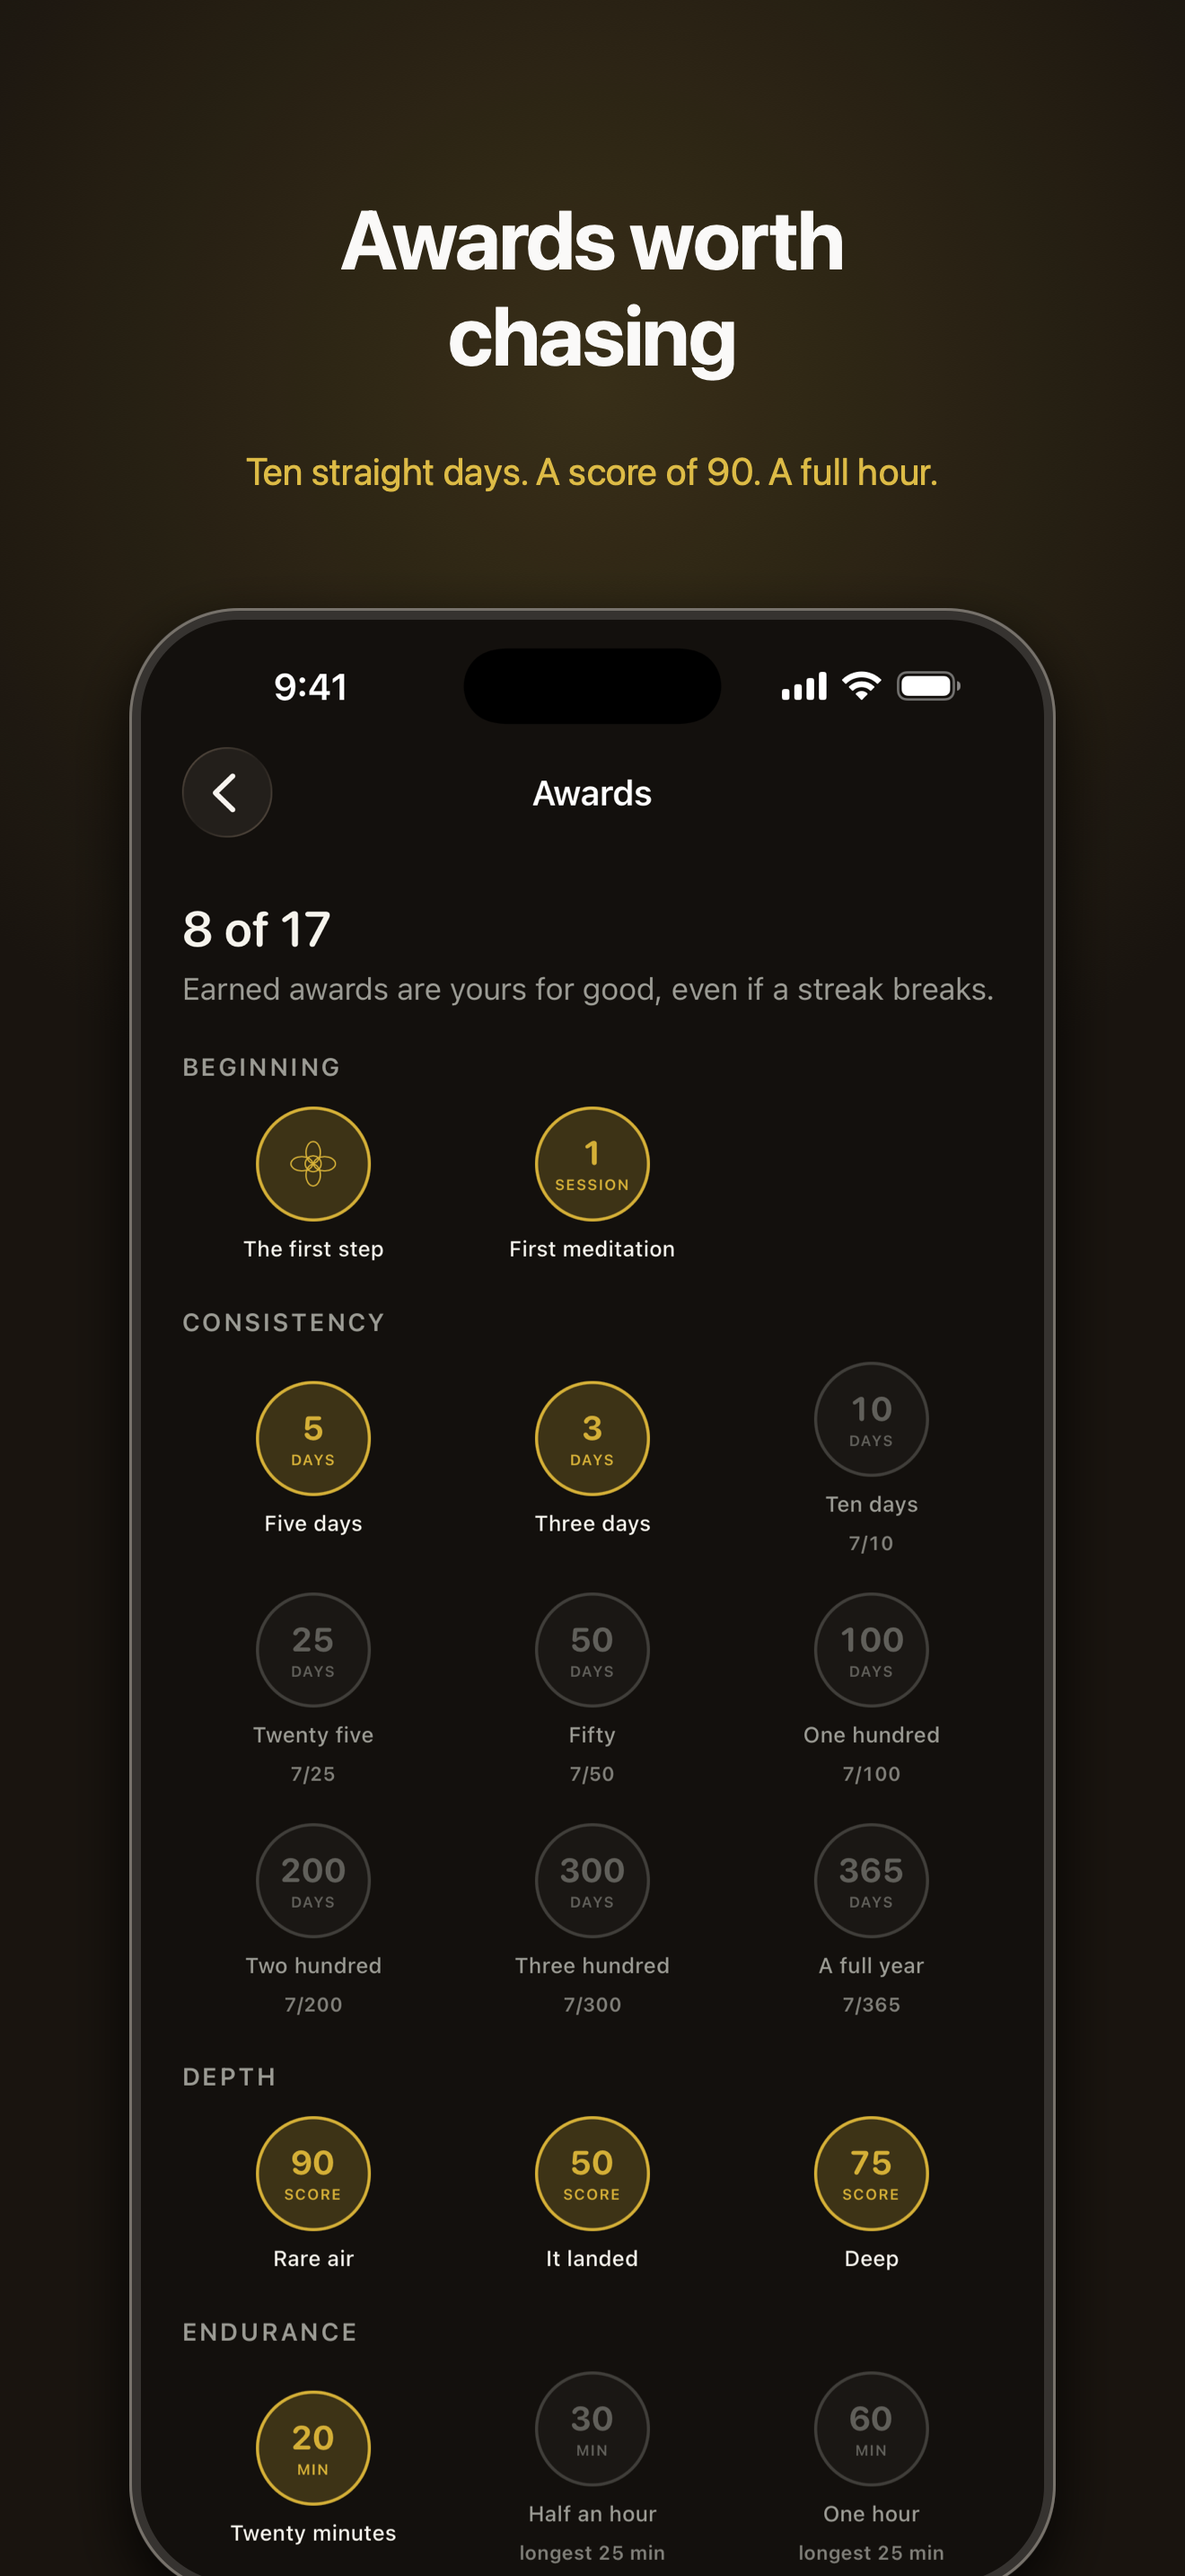
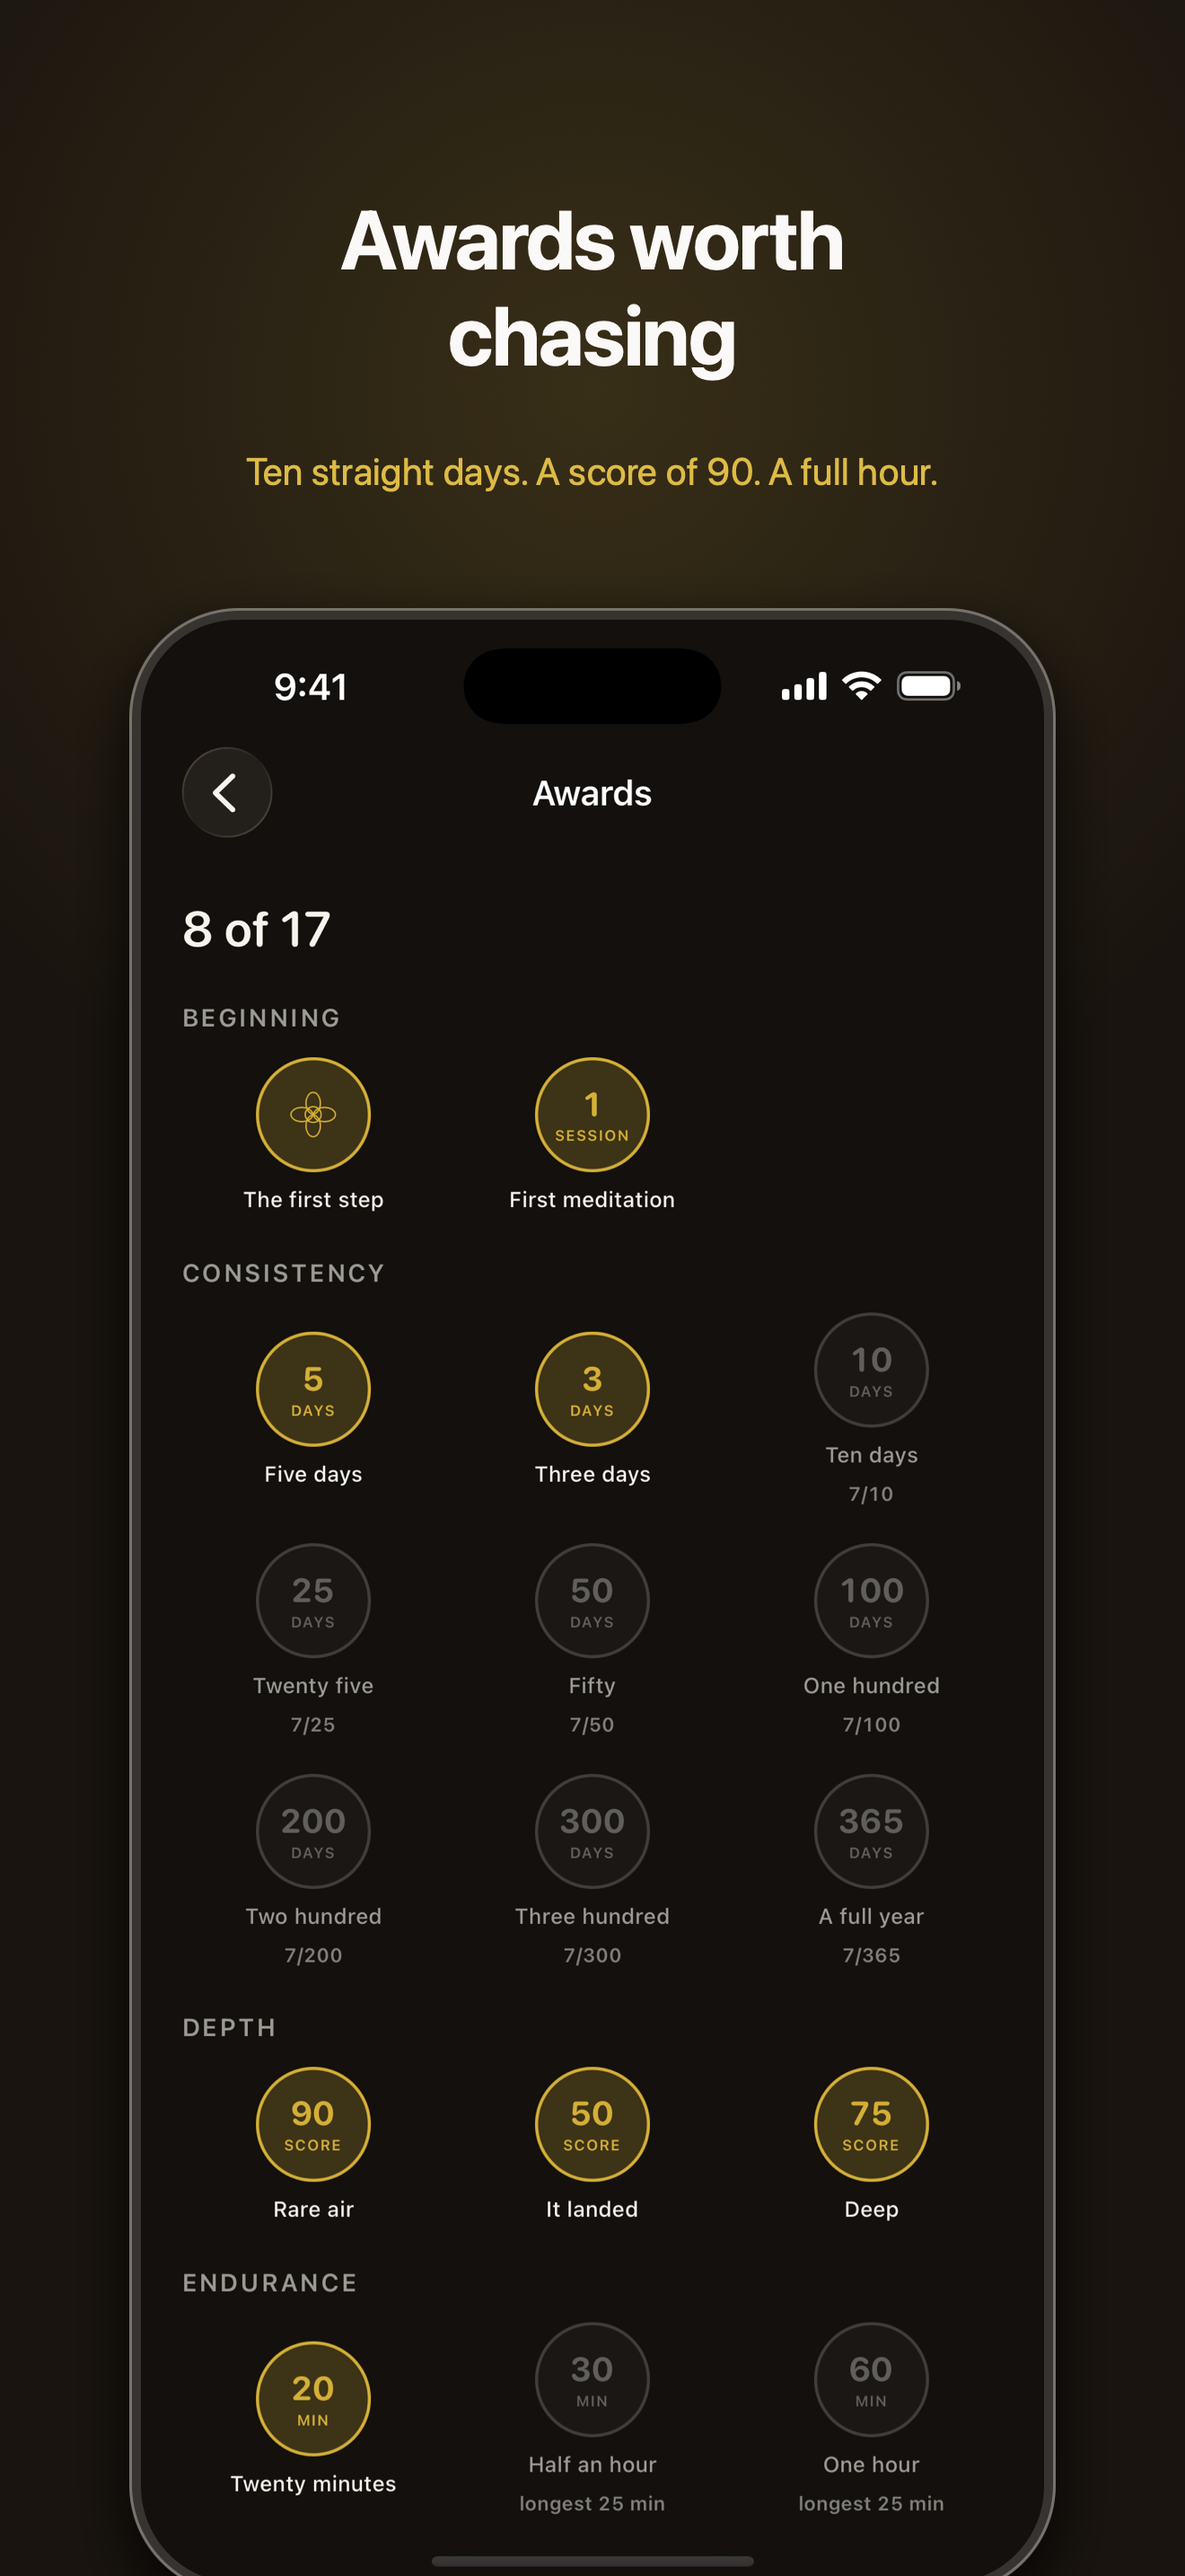
Slide 1 asks the question before answering it
"Proof your meditation landed / A score out of 100" led with a metric
the reader has no reason to want yet, in the one asset that appears in
search results with no context at all. It now reads "Did that actually
work? / Your Apple Watch knows. 808 tells you." Same correction that
reshaped the description.

Slide 5 recaptured: the awards shelf lost the "yours for good" line, so
the old image no longer matched the app, and more badges now sit above
the fold.

diff --git a/APP_STORE.md b/APP_STORE.md
@@ -191,7 +191,7 @@ Generated and committed at `marketing/appstore/`. Real screens from the iPhone
 
 | # | File | Headline | Subhead |
 |---|---|---|---|
-| 1 | 01-score | Proof your meditation landed | A score out of 100, measured on your wrist |
+| 1 | 01-score | Did that actually work? | Your Apple Watch knows. 808 tells you. |
 | 2 | 02-evidence | See what your body actually did | Heart rate, stillness and breath, minute by minute |
 | 3 | 03-habit | Every session, on one calendar | Your streak, your history, your practice score |
 | 4 | 04-audio | Bring your own meditation | Or use the guided journey, tones and nature sounds |
@@ -210,7 +210,13 @@ keeping (keeping is implied). Slide 7 names no count: the guide is a growing
 list and a fixed number caps it.
 
 The first three are what appear in search results, so they carry the argument:
-proof, then the evidence behind it, then the habit.
+the question, then the evidence that answers it, then the habit.
+
+**Slide 1 asks before it answers** (Melvin, 2026-09-01, the same correction that
+reshaped the description). It used to read "Proof your meditation landed / A
+score out of 100", which leads with a metric nobody has been given a reason to
+want. It now names the question the reader already has. Slide 5 was recaptured
+the same day: the awards shelf no longer carries the "yours for good" line.
 
 ### Apple Watch (separate required set, we ship a Watch app)
 
